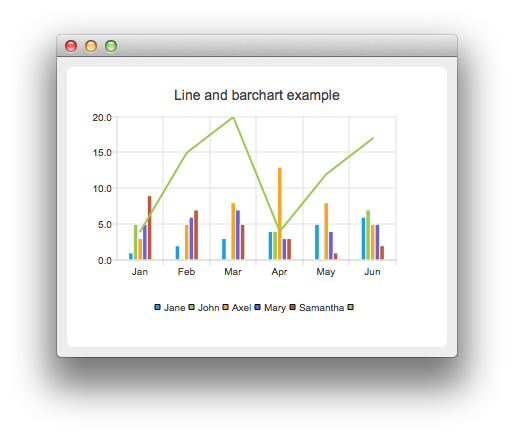
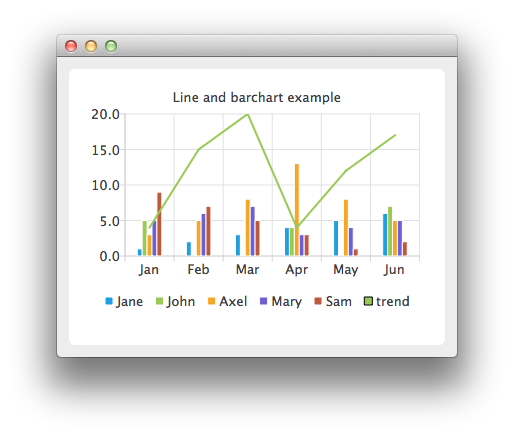
Line and bar example now has a name for the line

Changed region(s): [[0.1556, 0.2385, 0.8093, 0.7156], [0.3113, 0.2087, 0.6848, 0.2385], [0.1245, 0.0894, 0.1556, 0.1193]]

diff --git a/examples/lineandbar/main.cpp b/examples/lineandbar/main.cpp
@@ -39,7 +39,7 @@ int main(int argc, char *argv[])
     QBarSet *set1 = new QBarSet("John");
     QBarSet *set2 = new QBarSet("Axel");
     QBarSet *set3 = new QBarSet("Mary");
-    QBarSet *set4 = new QBarSet("Samantha");
+    QBarSet *set4 = new QBarSet("Sam");
 
     *set0 << 1 << 2 << 3 << 4 << 5 << 6;
     *set1 << 5 << 0 << 0 << 4 << 0 << 7;
@@ -59,7 +59,7 @@ int main(int argc, char *argv[])
 
 //![8]
     QLineSeries *lineseries = new QLineSeries();
-
+    lineseries->setName("trend");
     lineseries->append(QPoint(0, 4));
     lineseries->append(QPoint(1, 15));
     lineseries->append(QPoint(2, 20));
